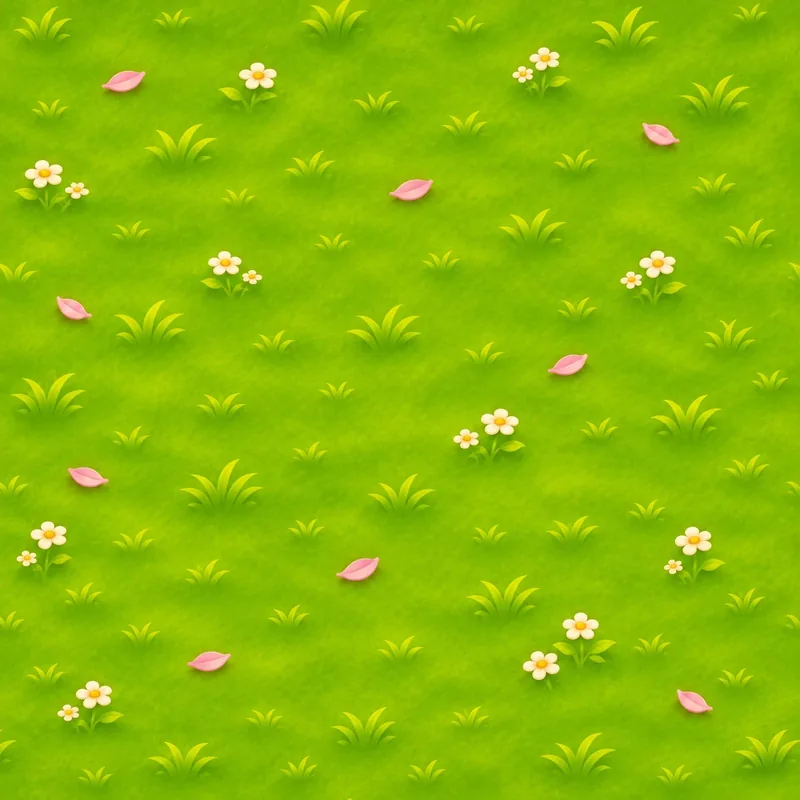
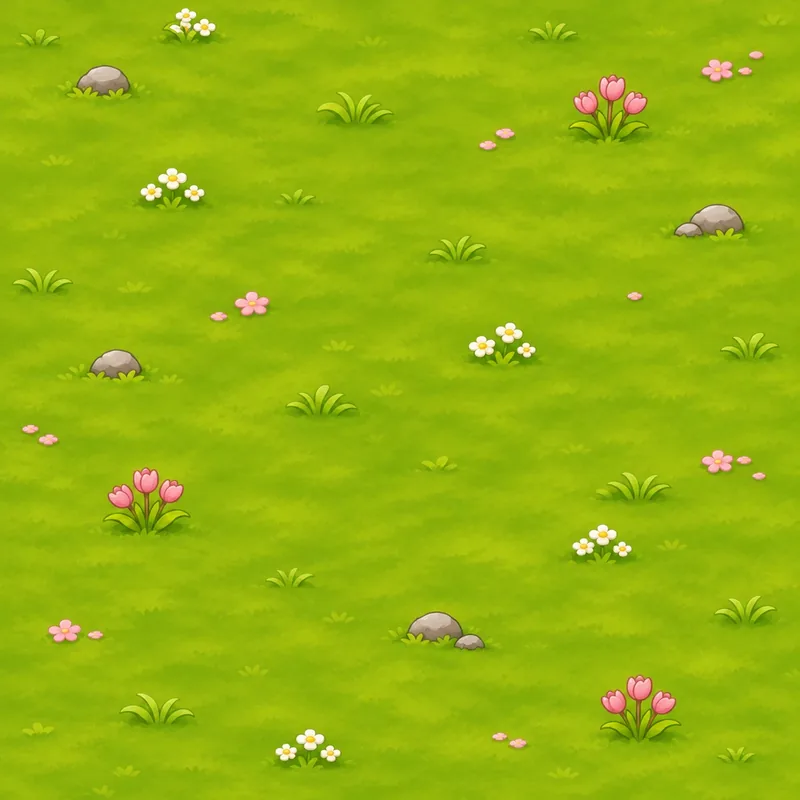
Nouveaux fonds du jardin au printemps, en été et en automne (4.0.6, test)
Claude-Session: https://claude.ai/code/session_018D5HKHv8P36r9XqBrjDYb3

diff --git a/index.html b/index.html
@@ -6,13 +6,13 @@
   <title>Potager idle</title>
   <meta name="description" content="Un petit jeu idle de potager : plante, arrose, récolte, cuisine et découvre des variétés hybrides.">
   <meta name="theme-color" content="#fdf3e7" id="theme-color">
-  <link rel="manifest" href="manifest.webmanifest?v=487">
+  <link rel="manifest" href="manifest.webmanifest?v=488">
   <link rel="icon" href="icons/favicon-32.png" sizes="32x32" type="image/png">
   <link rel="icon" href="icons/favicon-64.png" sizes="64x64" type="image/png">
   <link rel="icon" href="icons/icon-192.png" sizes="192x192" type="image/png">
   <link rel="preload" href="fonts/nunito-latin.woff2" as="font" type="font/woff2" crossorigin>
   <link rel="preload" href="fonts/fredoka-latin.woff2" as="font" type="font/woff2" crossorigin>
-  <link rel="stylesheet" href="css/style.css?v=487">
+  <link rel="stylesheet" href="css/style.css?v=488">
 </head>
 <body>
 <div id="app">
@@ -45,27 +45,27 @@
 <div id="fx"></div>
 <div id="toasts" aria-live="polite"></div>
 
-<script src="js/env.js?v=487"></script>
-<script src="js/typo.js?v=487"></script>
-<script src="js/data.js?v=487"></script>
-<script src="assets/img/manifest.js?v=487"></script>
-<script src="js/art.js?v=487"></script>
-<script src="js/seasons.js?v=487"></script>
-<script src="js/sound.js?v=487"></script>
-<script src="js/achievements.js?v=487"></script>
-<script src="js/cloud-config.js?v=487"></script>
-<script src="js/cloud.js?v=487"></script>
-<script src="js/profile.js?v=487"></script>
-<script src="js/friends.js?v=487"></script>
-<script src="js/visit.js?v=487"></script>
-<script src="js/water.js?v=487"></script>
-<script src="js/trade.js?v=487"></script>
-<script src="js/like.js?v=487"></script>
-<script src="js/goals.js?v=487"></script>
-<script src="js/news.js?v=487"></script>
-<script src="js/balades.js?v=487"></script>
-<script src="js/jardin.js?v=487"></script>
-<script src="js/tuto.js?v=487"></script>
-<script src="js/game.js?v=487"></script>
+<script src="js/env.js?v=488"></script>
+<script src="js/typo.js?v=488"></script>
+<script src="js/data.js?v=488"></script>
+<script src="assets/img/manifest.js?v=488"></script>
+<script src="js/art.js?v=488"></script>
+<script src="js/seasons.js?v=488"></script>
+<script src="js/sound.js?v=488"></script>
+<script src="js/achievements.js?v=488"></script>
+<script src="js/cloud-config.js?v=488"></script>
+<script src="js/cloud.js?v=488"></script>
+<script src="js/profile.js?v=488"></script>
+<script src="js/friends.js?v=488"></script>
+<script src="js/visit.js?v=488"></script>
+<script src="js/water.js?v=488"></script>
+<script src="js/trade.js?v=488"></script>
+<script src="js/like.js?v=488"></script>
+<script src="js/goals.js?v=488"></script>
+<script src="js/news.js?v=488"></script>
+<script src="js/balades.js?v=488"></script>
+<script src="js/jardin.js?v=488"></script>
+<script src="js/tuto.js?v=488"></script>
+<script src="js/game.js?v=488"></script>
 </body>
 </html>

diff --git a/js/game.js b/js/game.js
@@ -1,7 +1,7 @@
 "use strict";
 /* Numéro de version affiché dans les Paramètres.
    À chaque mise à jour : changer APP_VERSION, le ?v= dans index.html et VERSION dans sw.js. */
-const APP_VERSION = "4.0.5" + (IS_TEST ? "-test" : "");
+const APP_VERSION = "4.0.6" + (IS_TEST ? "-test" : "");
 /* ---------------- Helpers ---------------- */
 const $ = s => document.querySelector(s);
 const now = () => Date.now();

diff --git a/sw.js b/sw.js
@@ -1,6 +1,6 @@
 /* Service worker de Potager idle : rend le jeu jouable hors-ligne.
    À chaque mise à jour du jeu, augmente VERSION pour que les téléphones téléchargent la nouvelle version. */
-const VERSION = "potager-v487";
+const VERSION = "potager-v488";
 const FILES = [
   "./",
   "index.html",

diff --git a/CHANGELOG.md b/CHANGELOG.md
@@ -195,6 +195,10 @@ Bonne saison au potager ! 🌸☀🍂❄
 
 ## Détail des mises à jour
 
+### 4.0.6
+
+- Nouveaux fonds du jardin au printemps, en été et en automne.
+
 ### 4.0.5
 
 - Nouveau fond du jardin en hiver.
